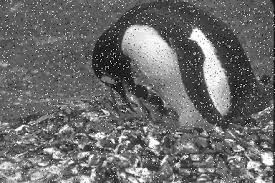
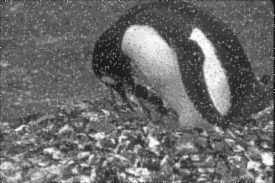
fix laplace filter

diff --git a/filtering/learn.py b/filtering/learn.py
@@ -1,5 +1,31 @@
+import time
+
 from PIL import Image
 from numpy import asarray
+import numpy as np
+
+def add_HE_fun():
+    hist = [0] * (new_img.max() - new_img.min() + 1)
+    for i in range(len(img)):
+        for j in range(len(img[0])):
+            agrey = new_img[i][j]
+            hist[agrey + new_img.min()] += 1
+
+    acc_hist = []
+    acc_hist.append(float(hist[0] / len(hist)))
+    for i in range(1, len(hist)):
+        acc_hist.append(acc_hist[i - 1] + float(hist[i] / (len(img) * len(img[0]))))
+        print(acc_hist)
+    small_partition = new_img.min()
+    print(small_partition)
+    # time.sleep(5)
+    for i in range(len(img)):
+        for j in range(len(img[0])):
+            agrey = new_img[i][j]
+            new_grey = round(img[i][j] + min(acc_hist[agrey - small_partition] * 256, 255))
+            print(new_grey)
+            new_img[i][j] = new_grey
+
 pil_im = Image.open("img.png").convert('L')
 # pil_im.show()
 # pil_im.thumbnail((pil_im.width*0.2,pil_im.height*0.2))
@@ -15,23 +41,30 @@ for i in range(1, len(img) - 1):
         new_img[i][j] = sum
         # img[i][j] = sum
 
-hist = [0]*(new_img.max()-new_img.min()+1)
-for i in range( len(img) ):
-    for j in range( len(img[0]) ):
-        agrey=new_img[i][j]
-        hist[agrey+new_img.min()]+=1
-
-acc_hist = []
-acc_hist.append(float(hist[0]/len(hist)))
-for i in range(1,len(hist)):
-    acc_hist.append(acc_hist[i-1]+float(hist[i]/len(hist)))
-small_partition = new_img.min()
+# 对卷积图像进行灰度平移：
+max_grey = new_img.max()
+min_grey = new_img.min()
+a=[]
+a.append([max_grey,1])
+a.append([min_grey,1])
+a=np.array(a)
+b=np.array([255,0])
+x=np.linalg.solve(a,b)
+print(x)
+time.sleep(2)
 
 for i in range(len(img)):
     for j in range(len(img[0])):
-        agrey = new_img[i][j]
-        new_img[i][j] = round(max(acc_hist[agrey-small_partition]*256,255))
-img = img.astype('uint8')
+        new_img[i][j]=new_img[i][j]*x[0]+x[1]
+
+average_val = new_img.mean()
+for i in range(len(img)):
+    for j in range(len(img[0])):
+        new_img[i][j]=new_img[i][j]-average_val
+        new_img[i][j] = round(min((img[i][j]-new_img[i][j]),255))
+
+
+new_img = new_img.astype('uint8')
 # 转化为uint8
-im = Image.fromarray(img)
-im.save(fp="linear_penguins.png", format="png")
+im = Image.fromarray(new_img)
+im.save(fp="/Data/Rice_Bowl/Python/CV/filtering/linear_penguins.png", format="png")
